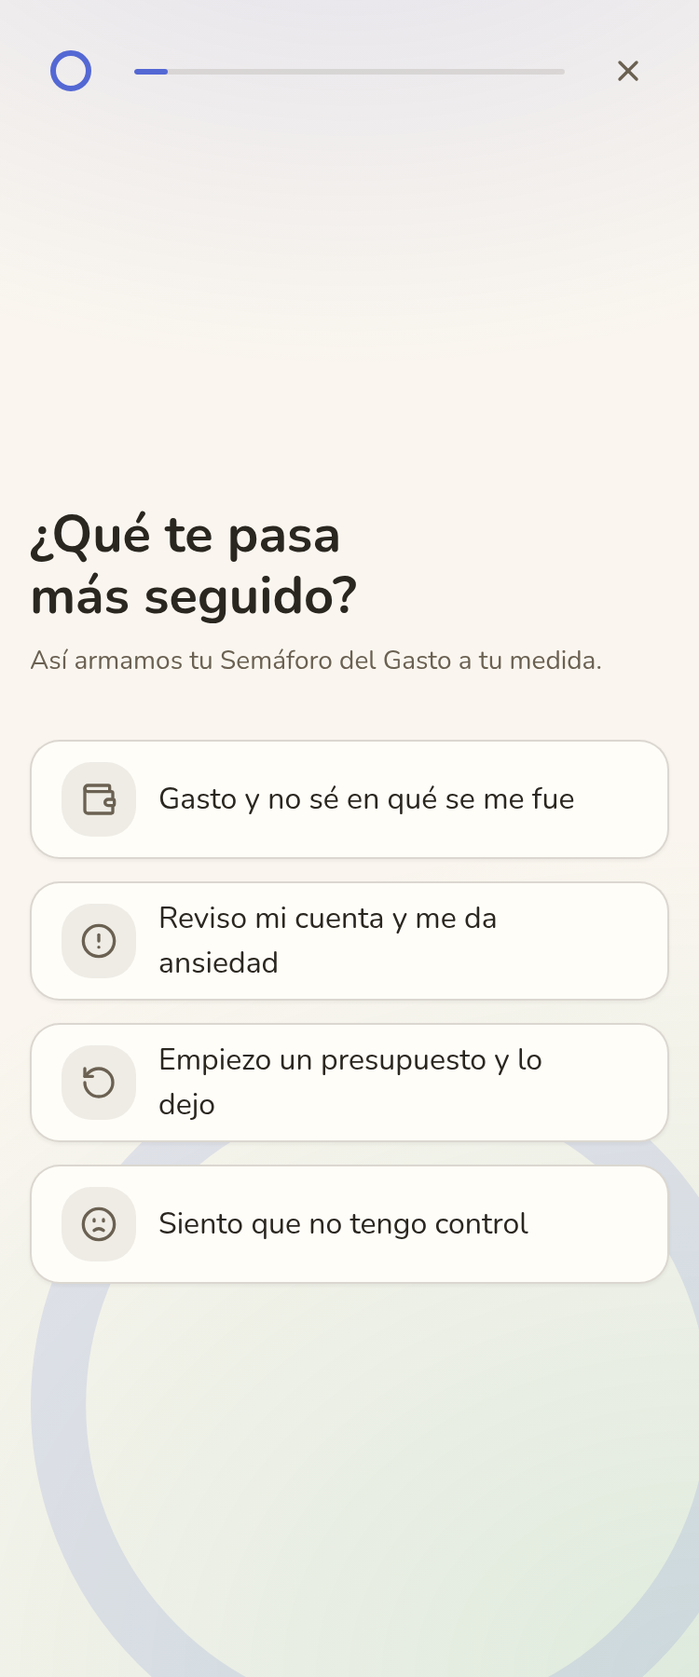
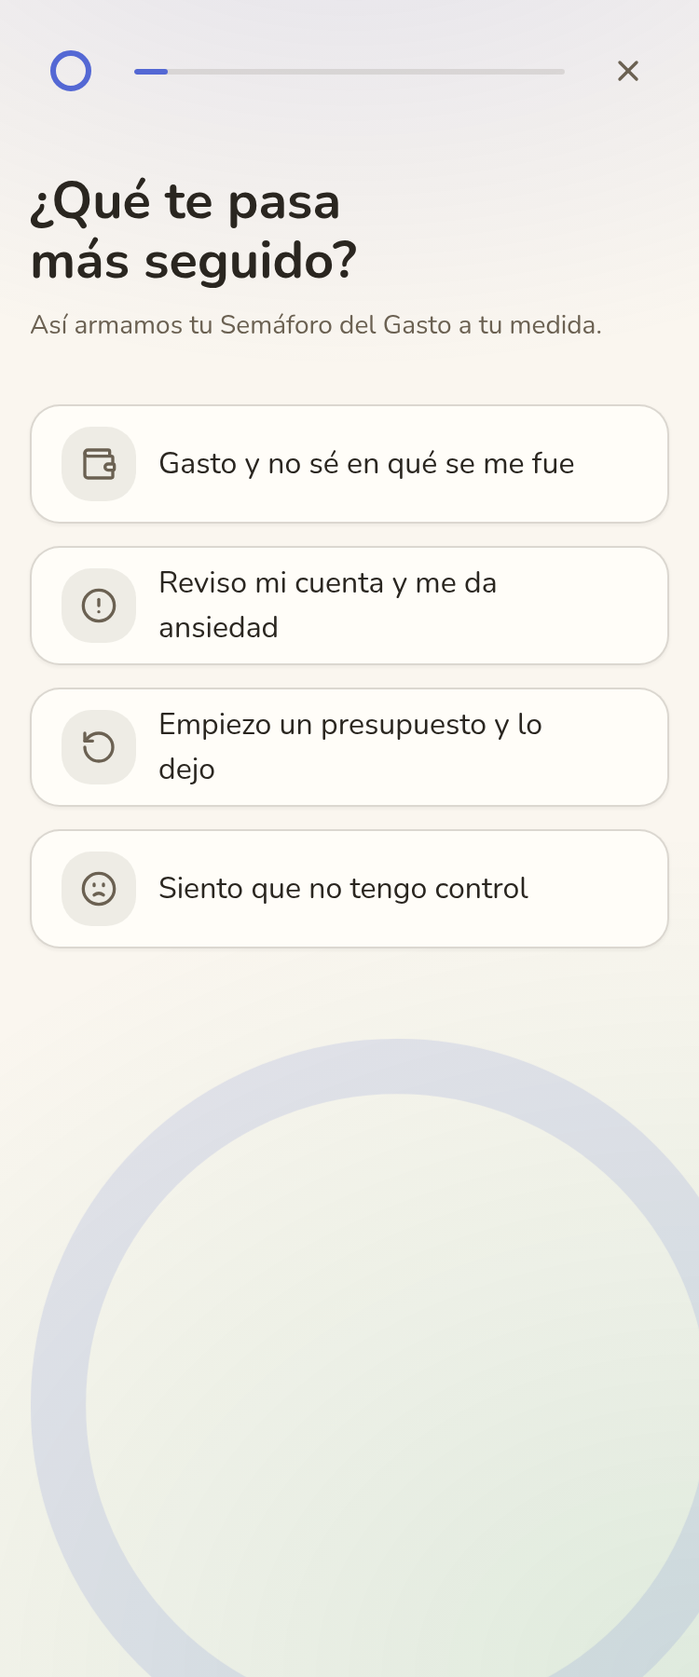
fix: defectos reales de ronda 7 del revisor (onboarding + paywall)
Onboarding:
- HoldButton solo escuchaba pointerdown/up — un usuario de solo-teclado no
  podía completar el compromiso (bloqueaba el funnel entero). Ahora responde
  a Enter/Espacio con el mismo temporizador de 900ms.
- Con reduced-motion, el anillo del HoldButton no daba ninguna señal visual
  durante los 900ms de espera — ahora actualiza en pasos discretos (150ms).
- El justify-center agregado en la ronda 6 solo movió el vacío de abajo
  hacia arriba en las preguntas cortas (matemáticamente equivalente a
  centrar, no lo resolvía) — revertido a layout top-anchored; el fondo ya
  agrandado/animado de la ronda 6 llena el espacio inferior sin necesidad
  de reposicionar el contenido.
- focus-visible agregado a FunnelButton y al círculo del HoldButton
  (inconsistente con OptionChip, que ya lo tenía).

Paywall:
- El CTA principal quedaba fuera del viewport inicial (~88% del scroll) sin
  ninguna forma de alcanzarlo sin desplazarse, en la pantalla que más
  dinero decide — ahora es una barra fija al fondo, siempre visible.
- Nombre de la garantía todavía no coincidía exactamente con la landing
  ("de 14 días sin culpa" vs. "de los Primeros 14 Días Sin Culpa") —
  ahora es el mismo texto en ambas pantallas.
- El estado "Un momento…" del CTA solo atenuaba el botón, sin ninguna
  señal de que algo estaba pasando — FunnelButton ahora acepta `cargando`
  y muestra un anillo girando.
- La fase de carga (~4.4s, LoadingPlan) no tenía ninguna forma de salir —
[…]

diff --git a/components/funnel/ui.tsx b/components/funnel/ui.tsx
@@ -5,7 +5,7 @@
 // el kit de landing (components/landing/tokens.css, ya global vía globals.css) —
 // cero valores nuevos de marca aquí, solo estructura y comportamiento.
 
-import { useEffect, useRef, useState, type ReactNode } from 'react';
+import { useEffect, useRef, useState, type KeyboardEvent, type ReactNode } from 'react';
 import { AnimatePresence, motion, useReducedMotion } from 'motion/react';
 import { ChevronLeft, Check, X } from 'lucide-react';
 import type { LucideIcon } from 'lucide-react';
@@ -74,14 +74,19 @@ export function FunnelButton({
   onClick,
   variant = 'solid',
   disabled = false,
+  cargando = false,
   type = 'button',
 }: {
   children: ReactNode;
   onClick?: () => void;
   variant?: 'solid' | 'outline';
   disabled?: boolean;
+  /** Muestra un anillo girando junto al texto — sin esto, "disabled" a secas
+   * se lee como congelado, no como "trabajando" (heurística 1). */
+  cargando?: boolean;
   type?: 'button' | 'submit';
 }) {
+  const reduce = useReducedMotion();
   const estilo =
     variant === 'outline'
       ? 'border border-[color-mix(in_oklab,var(--accent)_45%,transparent)] text-[var(--accent)] hover:bg-[var(--chip-bg)]'
@@ -92,8 +97,16 @@ export function FunnelButton({
       whileTap={disabled ? undefined : { scale: 0.97 }}
       onClick={onClick}
       disabled={disabled}
-      className={`flex h-[52px] w-full items-center justify-center rounded-[var(--radius-button)] px-8 text-[17px] font-semibold transition-colors duration-150 [touch-action:manipulation] disabled:opacity-40 ${estilo}`}
+      className={`flex h-[52px] w-full items-center justify-center gap-2 rounded-[var(--radius-button)] px-8 text-[17px] font-semibold transition-colors duration-150 [touch-action:manipulation] focus-visible:outline-none focus-visible:ring-2 focus-visible:ring-[var(--accent)] focus-visible:ring-offset-2 focus-visible:ring-offset-[var(--bg)] disabled:opacity-40 ${estilo}`}
     >
+      {cargando && (
+        <motion.span
+          aria-hidden="true"
+          className="inline-flex size-4 shrink-0 rounded-full border-2 border-current border-t-transparent"
+          animate={reduce ? undefined : { rotate: 360 }}
+          transition={reduce ? undefined : { duration: 0.7, repeat: Infinity, ease: 'linear' }}
+        />
+      )}
       {children}
     </motion.button>
   );
@@ -246,7 +259,7 @@ export function FunnelScreen({
         initial={{ opacity: 0, x: reduce ? 0 : 40 }}
         animate={{ opacity: 1, x: 0 }}
         transition={{ duration: reduce ? 0.2 : 0.3, ease: [0.16, 1, 0.3, 1] }}
-        className="mx-auto flex w-full max-w-[500px] flex-1 flex-col justify-center px-4 pb-8 pt-8"
+        className="mx-auto flex w-full max-w-[500px] flex-1 flex-col px-4 pb-8 pt-8"
       >
         {children}
       </motion.div>
@@ -307,22 +320,36 @@ export function HoldButton({ onCommit, label }: { onCommit: () => void; label: s
   const reduce = useReducedMotion();
   const [progreso, setProgreso] = useState(0);
   const rafRef = useRef<number | null>(null);
-  const timeoutRef = useRef<ReturnType<typeof setTimeout> | null>(null);
+  const intervalRef = useRef<ReturnType<typeof setInterval> | null>(null);
   const inicioRef = useRef(0);
+  const presionandoRef = useRef(false);
   const DURACION = 900;
+  const PASO_REDUCE = 150; // reduced-motion: progreso en pasos discretos, no un tween continuo
 
   function limpiar() {
     if (rafRef.current !== null) cancelAnimationFrame(rafRef.current);
     rafRef.current = null;
-    if (timeoutRef.current !== null) clearTimeout(timeoutRef.current);
-    timeoutRef.current = null;
+    if (intervalRef.current !== null) clearInterval(intervalRef.current);
+    intervalRef.current = null;
   }
 
   function empezar() {
+    if (presionandoRef.current) return; // evita reinicios por key-repeat del teclado
+    presionandoRef.current = true;
     if (reduce) {
-      // Sin animación, pero el ritual de "sostener" se mantiene: un solo tap
-      // ya no dispara el compromiso, hay que sostenerlo la misma duración.
-      timeoutRef.current = setTimeout(onCommit, DURACION);
+      // Sin tween, pero SÍ con feedback: el anillo avanza en pasos discretos
+      // cada 150ms — antes quedaba inmóvil al 0% los 900ms completos, sin
+      // ninguna señal de que el gesto se estaba registrando.
+      inicioRef.current = performance.now();
+      intervalRef.current = setInterval(() => {
+        const t = Math.min(1, (performance.now() - inicioRef.current) / DURACION);
+        setProgreso(t * 100);
+        if (t >= 1) {
+          limpiar();
+          presionandoRef.current = false;
+          onCommit();
+        }
+      }, PASO_REDUCE);
       return;
     }
     inicioRef.current = performance.now();
@@ -330,6 +357,7 @@ export function HoldButton({ onCommit, label }: { onCommit: () => void; label: s
       const t = Math.min(1, (ahora - inicioRef.current) / DURACION);
       setProgreso(t * 100);
       if (t >= 1) {
+        presionandoRef.current = false;
         onCommit();
         return;
       }
@@ -340,7 +368,18 @@ export function HoldButton({ onCommit, label }: { onCommit: () => void; label: s
 
   function soltar() {
     limpiar();
+    presionandoRef.current = false;
     setProgreso(0);
+  }
+
+  function alSoltarTecla(e: KeyboardEvent<HTMLButtonElement>) {
+    if (e.key === 'Enter' || e.key === ' ') soltar();
+  }
+  function alPresionarTecla(e: KeyboardEvent<HTMLButtonElement>) {
+    if (e.key === 'Enter' || e.key === ' ') {
+      e.preventDefault(); // Space no debe scrollear la página
+      empezar();
+    }
   }
 
   useEffect(() => limpiar, []);
@@ -352,8 +391,10 @@ export function HoldButton({ onCommit, label }: { onCommit: () => void; label: s
         onPointerDown={empezar}
         onPointerUp={soltar}
         onPointerLeave={soltar}
+        onKeyDown={alPresionarTecla}
+        onKeyUp={alSoltarTecla}
         aria-label={label}
-        className="relative flex size-28 items-center justify-center rounded-full bg-[color-mix(in_oklab,var(--accent)_10%,transparent)] [touch-action:manipulation]"
+        className="relative flex size-28 items-center justify-center rounded-full bg-[color-mix(in_oklab,var(--accent)_10%,transparent)] [touch-action:manipulation] focus-visible:outline-none focus-visible:ring-2 focus-visible:ring-[var(--accent)] focus-visible:ring-offset-2 focus-visible:ring-offset-[var(--bg)]"
       >
         <svg viewBox="0 0 100 100" className="absolute inset-0 -rotate-90">
           <circle cx="50" cy="50" r="44" fill="none" stroke="color-mix(in oklab, var(--accent) 18%, transparent)" strokeWidth="6" />

diff --git a/app/paywall/page.tsx b/app/paywall/page.tsx
@@ -110,7 +110,7 @@ export default function Paywall() {
   if (fase === 'cargando') {
     return (
       <div className="flex min-h-dvh flex-col bg-[var(--bg)] text-[var(--text-primary)] [font-family:var(--font-body)]">
-        <LoadingPlan lineas={lineas} onDone={() => setFase('listo')} />
+        <LoadingPlan lineas={lineas} onDone={() => setFase('listo')} onClose={() => router.push('/')} />
       </div>
     );
   }
@@ -122,7 +122,7 @@ export default function Paywall() {
           `isolate` del contenedor padre sigue siendo necesario (ver su
           definición en components/funnel/ui.tsx). */}
       <FunnelFondo />
-      <div className="mx-auto flex w-full max-w-[500px] flex-col px-4 pb-10 pt-4">
+      <div className="mx-auto flex w-full max-w-[500px] flex-col px-4 pb-32 pt-4">
         <div className="flex h-11 items-center justify-between">
           <motion.button
             type="button"
@@ -245,22 +245,7 @@ export default function Paywall() {
             </div>
           </Bloque>
 
-          <Bloque indice={4} reduce={reduce}>
-            <FunnelButton onClick={empezarPrueba} disabled={avanzando}>
-              {avanzando ? 'Un momento…' : `Empezar mis ${TRIAL_DIAS} días gratis`}
-            </FunnelButton>
-            {errorAvance && (
-              <p className="mt-2 text-center text-[13px] text-[var(--text-secondary)]">
-                Esto está tardando más de lo normal. Vuelve a intentarlo — si sigue sin avanzar, revisa tu conexión.
-              </p>
-            )}
-          </Bloque>
-
-          <Bloque indice={5} reduce={reduce} className="flex flex-col items-center gap-4">
-            <p className="-mt-2 text-center text-[13px] text-[var(--text-secondary)]">
-              Cancela cuando quieras · te avisamos antes del cobro
-            </p>
-
+          <Bloque indice={4} reduce={reduce} className="flex flex-col items-center gap-4">
             <motion.button
               type="button"
               whileTap={{ scale: 0.96 }}
@@ -275,10 +260,28 @@ export default function Paywall() {
                 <Lock size={14} strokeWidth={2} aria-hidden="true" /> Pago seguro
               </span>
               <span className="inline-flex items-center gap-1">
-                <ShieldCheck size={14} strokeWidth={2} aria-hidden="true" /> Garantía de {GARANTIA_DIAS} días sin culpa
+                <ShieldCheck size={14} strokeWidth={2} aria-hidden="true" /> Garantía de los Primeros {GARANTIA_DIAS} Días Sin Culpa
               </span>
             </p>
           </Bloque>
+        </div>
+      </div>
+
+      {/* CTA fijo al fondo (no en el flujo del scroll): la 7ª pasada del revisor
+          midió que el botón principal quedaba a ~88% del alto de la página sin
+          ninguna forma de alcanzarlo sin desplazarse — en la pantalla que más
+          dinero decide, la acción primaria no puede depender de que alguien
+          llegue hasta el final. */}
+      <div className="fixed inset-x-0 bottom-0 z-30 border-t border-[color-mix(in_oklab,var(--text-tertiary)_15%,transparent)] bg-[var(--bg)] px-4 pb-[max(16px,env(safe-area-inset-bottom))] pt-4 shadow-[var(--shadow-2)]">
+        <div className="mx-auto w-full max-w-[500px]">
+          <FunnelButton onClick={empezarPrueba} disabled={avanzando} cargando={avanzando}>
+            {avanzando ? 'Un momento…' : `Empezar mis ${TRIAL_DIAS} días gratis`}
+          </FunnelButton>
+          {errorAvance && (
+            <p className="mt-2 text-center text-[13px] text-[var(--text-secondary)]">
+              Esto está tardando más de lo normal. Vuelve a intentarlo — si sigue sin avanzar, revisa tu conexión.
+            </p>
+          )}
         </div>
       </div>
       <ConfirmSalir

diff --git a/components/funnel/LoadingPlan.tsx b/components/funnel/LoadingPlan.tsx
@@ -6,13 +6,23 @@
 
 import { useEffect, useState } from 'react';
 import { motion, useReducedMotion } from 'motion/react';
-import { Check } from 'lucide-react';
+import { Check, X } from 'lucide-react';
 
 const INTERVALO_MS = 1100;
 const PAUSA_FINAL_MS = 400;
 const CIRC = 2 * Math.PI * 44; // r=44 en un viewBox de 100
 
-export function LoadingPlan({ lineas, onDone }: { lineas: string[]; onDone: () => void }) {
+export function LoadingPlan({
+  lineas,
+  onDone,
+  onClose,
+}: {
+  lineas: string[];
+  onDone: () => void;
+  /** Salida durante la carga — sin esto no hay forma de salir en los ~4.4s
+   * que dura esta pantalla (heurística 3: control y libertad). */
+  onClose?: () => void;
+}) {
   const reduce = useReducedMotion();
   const [activa, setActiva] = useState(0);
 
@@ -33,7 +43,18 @@ export function LoadingPlan({ lineas, onDone }: { lineas: string[]; onDone: () =
   const porcentaje = Math.round((Math.min(activa, lineas.length) / lineas.length) * 100);
 
   return (
-    <div className="mx-auto flex w-full max-w-[420px] flex-1 flex-col items-center justify-center px-4 text-center">
+    <div className="relative flex min-h-dvh flex-col">
+      {onClose && (
+        <button
+          type="button"
+          onClick={onClose}
+          aria-label="Salir"
+          className="absolute right-4 top-4 flex size-11 items-center justify-center rounded-full text-[var(--text-secondary)] [touch-action:manipulation]"
+        >
+          <X size={18} strokeWidth={2.25} aria-hidden="true" />
+        </button>
+      )}
+      <div className="mx-auto flex w-full max-w-[420px] flex-1 flex-col items-center justify-center px-4 text-center">
       <div className="relative flex size-28 items-center justify-center">
         <svg viewBox="0 0 100 100" className="absolute inset-0 -rotate-90">
           <circle cx="50" cy="50" r="44" fill="none" stroke="color-mix(in oklab, var(--accent) 14%, transparent)" strokeWidth="9" />
@@ -97,6 +118,7 @@ export function LoadingPlan({ lineas, onDone }: { lineas: string[]; onDone: () =
           );
         })}
       </ul>
+      </div>
     </div>
   );
 }

diff --git a/docs/revisiones/paywall-veredicto.md b/docs/revisiones/paywall-veredicto.md
@@ -1,43 +1,42 @@
-# VEREDICTO revisor-visual — Paywall (Respira)
+# VEREDICTO revisor-visual — Paywall (Respira) — Ronda 7
 Fecha: 2026-09-17 00:00
-Screenshot: docs/revisiones/paywall-375.png
-Usabilidad: 33/40
-Craft: 14/20
+Screenshot: docs/revisiones/paywall-375.png (+ docs/revisiones/paywall-cargando-375.png)
+Usabilidad: 32/40
+Craft: 16/20
 Copy (si vende): 19/20
 Fidelidad (si hubo referencia): N-A
 Veredicto: NO LISTA
 
-## Desglose usabilidad /40
-1. Visibilidad del estado del sistema: 3/4 — el CTA cambia a "Un momento…" + disabled al tocar, con salvaguarda de 7s (app/paywall/page.tsx L65-72). Falta un ícono/spinner visible, solo cambia el texto.
-2. Lenguaje del usuario: 4/4 — cero jerga, copy 100% en el mundo de Camila ("gasto y no sé en qué se me fue", "sin conectar tu banco").
-3. Control y libertad (código): 3/4 — `ConfirmSalir` (components/funnel/ui.tsx L227-269) reemplaza el `window.confirm` nativo y solo aparece si `hayRespuestas`; X y "Ahora no" comparten la misma salida. Resta puntos que la selección de plan se pierda silenciosamente al avanzar (ver defecto 4).
-4. Consistencia: 3/4 — reutiliza FunnelButton/CheckCustom/RespiraMark, pero el botón "X" tiene `whileTap` en paywall (page.tsx L131-139) y NO lo tiene en `FunnelHeader` (ui.tsx L53-62) para el mismo ícono/función en onboarding.
-5. Prevención de errores: 4/4 — plan "Anual" pre-seleccionado por defecto (no exige elección), doble-tap bloqueado con `avanzando`.
-6. Reconocer vs recordar: 4/4 — fechas reales calculadas (`formatearFecha`, "22 sept", "24 sept"), no fechas relativas vagas; todo el contexto del quiz (dolor, meta, nº respuestas) visible sin que el usuario tenga que recordarlo.
-7. Flexibilidad y eficiencia (código): 3/4 — default inteligente (plan anual preseleccionado); sin atajos de teclado, pero es una pantalla mobile de un solo flujo, no aplica mucho más.
-8. Estético y minimalista: 3/4 — 1 CTA primario + 2 secundarios (X, "Ahora no"), cada bloque se gana su lugar; usa 7 tamaños de texto distintos en una sola vista (28/20/15/14/13/12/11px) cuando el sistema pide máx. 3.
-9. Errores claros con solución: 2/4 — el ÚNICO manejo de error de la pantalla (`setTimeout` de 7s en `empezarPrueba`, page.tsx L69-71) revierte el botón en silencio, sin ningún mensaje "qué pasó + qué hacer". Esto es la misma brecha marcada NO CERRADA de la ronda 4 ("falta de patrón de error/reintento visible"): se agregó una salvaguarda técnica, no un patrón de error visible.
-10. Ayuda contextual: 4/4 — timeline con fechas reales + explicación de cada hito, microcopy bajo el CTA anticipa la objeción de cobro sorpresa, trust row (pago seguro + garantía).
+## Desglose Usabilidad /40
+- h1 Visibilidad del estado del sistema: 3/4 — plan seleccionado da feedback inmediato (tinte+sombra), CTA cambia a "Un momento…" y el timeout muestra mensaje visible (h9-fix confirmado, línea `errorAvance` en app/paywall/page.tsx:252-256). Resta 1 punto: durante los 7s de espera el único cambio es la opacidad del botón (disabled:opacity-40) — sin spinner ni animación, el usuario no tiene señal de que algo sigue en curso hasta que aparece el mensaje a los 7s.
+- h2 Lenguaje del usuario: 4/4 — cero jerga, cero inglés crudo, copy natural en todo el flujo.
+- h3 Control y libertad: 3/4 — X y "Ahora no" abren `ConfirmSalir` (con "Seguir aquí"/"Salir sin guardar") cuando hay respuestas — bien. Resta 1 punto: la fase `cargando` (LoadingPlan, ~4.8s) no renderiza ningún header/X — cero forma de salir durante ese tramo (`app/paywall/page.tsx:110-116` retorna solo `<LoadingPlan>`, sin `FunnelHeader` ni botón de cierre).
+- h4 Consistencia y estándares: 3/4 — el botón X ahora tiene `whileTap` igual que `FunnelHeader` (fix confirmado), `Hairline` usa los mismos tokens del kit. Resta 1 punto: la garantía se nombra distinto que en la landing — paywall dice "Garantía de 14 días sin culpa" (`app/paywall/page.tsx:278`) vs. landing "la Garantía de los **Primeros** 14 Días Sin Culpa" (`app/page.tsx:139`, Title Case + "Primeros"). Es el mismo concepto con dos nombres — mejor que la ronda 6 pero todavía no es el mismo string.
+- h5 Prevención de errores: 4/4 — plan Anual preseleccionado por defecto, `if (avanzando) return;` evita doble-tap (`app/paywall/page.tsx:67`), sin inputs libres que puedan fallar.
+- h6 Reconocer mejor que recordar: 4/4 — precios, timeline de cobro y garantía todos visibles a la vez; nada que el usuario deba recordar de otra pantalla.
+- h7 Flexibilidad y eficiencia (verificado en código): 2/4 — no hay atajos de teclado ni forma de saltar la animación de carga para quien vuelve a ver el paywall; `FunnelButton` y los botones de plan no definen `focus-visible` propio (a diferencia de `OptionChip`, que sí lo tiene en `components/funnel/ui.tsx:138`) — navegación por teclado inconsistente entre componentes del mismo kit.
+- h8 Estético y minimalista: 2/4 — 1 sola acción primaria, bien. Pero el screenshot completo mide ~1112px CSS de alto contra un viewport típico de ~812px: el CTA queda fuera de la vista inicial (~88% del scroll) y no hay CTA sticky (a diferencia del kit de landing, que sí tiene `<StickyCtaMobile>` en `components/landing/ui.tsx:186`). Además el mensaje "sin cobro sorpresa / cancela cuando quieras" se repite 3 veces con distinta redacción (timeline nodo 2 y 3 en líneas 228-229, y la línea suelta en 260-262) — no cada elemento se gana claramente su lugar.
+- h9 Errores claros y con solución: 4/4 — fix confirmado línea por línea: `errorAvance` muestra "Esto está tardando más de lo normal. Vuelve a intentarlo — si sigue sin avanzar, revisa tu conexión." (qué pasó + qué hacer, sin jerga). Retry funcional (`setErrorAvance(false)` al reintentar).
+- h10 Ayuda contextual: 3/4 — headline y value stack personalizados con las respuestas reales del onboarding (`leerRespuestas()`), el loading educa sobre qué está pasando. No es un empty state pero cumple la función de orientar.
 
-## Desglose craft /20
-- Jerarquía: 3/4 — 4 niveles legibles (héroe 28px → precio 20px → cuerpo 15px → labels 12-13px), pero hay demasiadas variantes de tamaño compitiendo (7 valores distintos de font-size en una sola pantalla).
-- Profundidad: 3/4 — 3 niveles de superficie correctos y verificados en tokens.css (`--bg` #faf6ef / `--surface` #fffdf8 / `--surface-2` #f1eadc), fondo decorativo con `isolate`+`fixed` ya visible en el screenshot (fix real, confirmado). El mesh de fondo sigue siendo muy sutil (casi imperceptible salvo el círculo inferior derecho).
-- Identidad ownable: 2/4 — el anillo de respiración (dispositivo ownable) está presente (SVG circular decorativo), y los checks son custom (sin emoji). Pero el componente `<Hairline>` del propio kit (components/landing/ui.tsx L48-75), pensado explícitamente para "plan recomendado", NO se usa en ningún lado del paywall: las 3 cards (value-stack, plan Anual, plan Mensual) usan bordes sólidos planos. Esto incumple el ancla binaria de conversión "≥1 hairline degradé" y penaliza este eje.
-- Movimiento (código + screenshot): 3/4 — stagger de entrada por bloque (`Bloque`, page.tsx L23-46), whileTap en todos los botones, modal con fade+scale, reduced-motion respetado en los 4 componentes revisados (Bloque, ConfirmSalir, LoadingPlan, HoldButton). Sin conteo animado de número héroe ni anillo/barra dibujándose EN esta pantalla en particular (aplican en LoadingPlan, pero esa pantalla no se pudo verificar visualmente — ver defecto 1).
-- Encaje óptico: 3/4 — radios consistentes (22px cards / 16px botones, verificado en tokens.css), badge y precios bien alineados, sin desencajes visibles a simple vista en el screenshot.
+## Desglose Craft /20
+- Jerarquía: 3/4 — headline 28px + acento, precios 20px, cuerpo 13-16px, labels 12-13px: funciona pero son casi 4 tamaños compitiendo, no 3 nítidos.
+- Profundidad: 3/4 — `FunnelFondo` compartido confirmado (fix real: mismo componente en `FunnelScreen` y en el paywall, `components/funnel/ui.tsx:170-220`), 3 superficies (base/surface/surface-2 hundido) presentes en código, pero en el screenshot el degradé superior se percibe casi plano — se nota más en el anillo tras el timeline que en el resto de la pantalla.
+- Identidad ownable: 3/4 — Nunito, anillo de marca, checks custom, hairline degradé en la card Anual (fix confirmado: `<Hairline emphasis={plan === 'anual'}>` en `app/paywall/page.tsx:176`). Pero el "Semáforo del Gasto" — el mecanismo que da nombre a la app y aparece 2 veces en el propio copy de esta pantalla — no tiene NINGUNA representación visual (ni rojo/ámbar/verde, la 2ª y 3ª nota de FICHA-ARTE.md líneas 26-27): toda la pantalla es monocromática en azul-lila. Se pierde el dispositivo más ownable que tiene el producto justo en la pantalla que lo vende.
+- Movimiento: 4/4 (verificado en código) — stagger de entrada (`Bloque`, indice*0.07), conteo de % en el anillo de carga (`LoadingPlan.tsx:33`), anillo que se dibuja (`strokeDashoffset` animado), tap <150ms en todos los botones (`whileTap`), modal `ConfirmSalir` con fade+scale, `useReducedMotion` respetado en los 5 archivos revisados.
+- Encaje óptico: 3/4 — `tabular-nums` en precios y porcentaje, radios consistentes (`--radius-card`/`--radius-button` en todas las cards y botones), padding simétrico (`p-5`). El badge "5 MESES GRATIS" se recorta bien sobre el hairline. Nada roto, pero nada sobresaliente tampoco.
 
-## Desglose copy /20 (trazado a FICHA-AVATAR.md)
-- Idea única dominante: 4/4 — "Semáforo del Gasto" como mecanismo bautizado, presente en hero + value stack + CTA implícito, consistente en todo el copy.
-- Especificidad y prueba: 3/4 — precios y ahorro con números verificables ($4.16/mes, $49.99/año, ~40%, verificado contra lib/pricing.ts), cero claims de ingresos/salud. Los 3 beneficios del value stack son afirmaciones de producto sin prueba/demo adicional.
-- Emoción/dolor real: 4/4 — cita casi literal el dolor ★ de la ficha ("Para que no vuelvas a decir «gasto y no sé en qué se me fue»" ← dolor #1 "Otra vez gasté sin darme cuenta y ahora no sé en qué se me fue la plata"), y el check "sin conectar tu banco" responde directo a la objeción #2 de la ficha.
-- Claridad de oferta: 4/4 — stack explícito, precio anclado (mensual vs. anual con % de ahorro), trial de 7 días con timeline de fechas reales, garantía nombrada con plazo ("Garantía de 14 días") cerca del CTA.
-- Dirección a una acción: 4/4 — un solo tipo de acción primaria ("Empezar mis 7 días gratis"), "Ahora no" y "X" son la única salida, sin CTAs que compitan.
-- Sub-check garantía nombrada: PASA (nombre + plazo, visible junto al CTA).
-- Sub-check message-match: no verificable (no hay dato del creativo de origen).
+## Desglose Copy /20 (trazado a FICHA-AVATAR.md)
+- Idea única dominante: 4/4 — todo el copy gira en "Semáforo del Gasto" bautizado, repetido en headline, subtítulo y value stack.
+- Especificidad y prueba: 3/4 — "Ahorras ~40% vs. mensual" es verificable (49.99 vs 83.88 = 40.4%, matemática correcta); "5 MESES GRATIS" es una redondeo razonable (4.85 meses reales). Cero prueba social/testimonio en esta pantalla — aceptable en un paywall post-quiz, pero no suma puntos de prueba.
+- Emoción/dolor real: 4/4 — el subtítulo «Para que no vuelvas a decir "gasto y no sé en qué se me fue"» es casi cita literal del dolor #1 (★, el marcado como principal) de FICHA-AVATAR.md línea 22.
+- Claridad de oferta: 4/4 — timeline día a día (Hoy/Día 5/Día 7) con monto exacto de cobro, plan y precio siempre visibles sin tener que releer.
+- Dirección a una acción: 4/4 — un solo CTA primario, "Ahora no" claramente secundario y sin competir visualmente.
+- Sub-check garantía nombrada: PASA (nombre + plazo presentes) pero con la inconsistencia de naming ya anotada en h4.
 
-## Top defectos
-1. [proceso/evidencia] El screenshot `docs/revisiones/paywall-cargando-375.png` entregado para esta ronda NO es la pantalla de loading del paywall (`components/funnel/LoadingPlan.tsx`, "Armando tu Semáforo del Gasto…" con anillo %) — es la pantalla de compromiso del ONBOARDING ("¡Listo, quedó registrado!", `app/onboarding/page.tsx` línea ~220). La pantalla de labor illusion del paywall NUNCA fue verificada visualmente en esta ronda → volver a capturar el screenshot correcto desde `/paywall` justo tras terminar el quiz antes de dar por buena esa fase.
-2. [CTA "Empezar mis X días gratis", `app/paywall/page.tsx` L65-72] El manejo de error del CTA es un `setTimeout` mudo de 7s que revierte el botón sin ningún mensaje ("qué pasó + qué hacer") — la brecha de la ronda 4 ("falta de patrón de error/reintento visible") sigue sin un patrón de error real → agregar un mensaje inline visible (ej. "No pudimos continuar, intenta de nuevo") cuando el timeout se dispara.
-3. [Cards de plan y value-stack, `app/paywall/page.tsx` L161-219] Ninguna card usa el componente `<Hairline>` (borde degradé) que el propio kit define para "plan recomendado" (`components/landing/ui.tsx` L48-75) — todas usan bordes sólidos planos, incumpliendo el gate binario de conversión "≥1 hairline degradé" → envolver la card del plan Anual con `<Hairline emphasis>`.
-4. [`empezarPrueba()`, `app/paywall/page.tsx` L65-72] El plan seleccionado (`anual`/`mensual`) nunca se persiste ni se pasa a `/entrar` — el usuario elige "Mensual" y esa elección desaparece antes del login/checkout → guardar `plan` en localStorage (mismo patrón que `guardarRespuestas`) o pasarlo por query param.
-5. [Botón "X" de cerrar — `app/paywall/page.tsx` L131-139 vs. `components/funnel/ui.tsx` L53-62] Mismo ícono/función con comportamiento de tap distinto entre pantallas (con `whileTap` en paywall, sin él en `FunnelHeader` de onboarding) → unificar el componente.
+## TOP DEFECTOS (máx 5)
+1. [Pantalla completa de planes, `app/paywall/page.tsx:118-283`] El CTA principal queda fuera del viewport inicial (~1112px de alto vs ~812px de viewport, CTA a ~88% del scroll) y no existe un CTA sticky de respaldo → agregar una barra CTA fija inferior (reusar el patrón de `StickyCtaMobile` en `components/landing/ui.tsx:186`) o comprimir el contenido para que el CTA entre en el primer scroll.
+2. [`app/paywall/page.tsx:278` vs `app/page.tsx:139`] La garantía se nombra distinto en paywall ("Garantía de 14 días sin culpa") y en landing ("la Garantía de los Primeros 14 Días Sin Culpa") → exportar el nombre completo como constante en `lib/pricing.ts` y usarlo literal en ambos archivos.
+3. [Toda la pantalla de planes] El "Semáforo del Gasto" —el mecanismo bautizado que da nombre a la pantalla— no tiene ninguna representación visual de semáforo (rojo/ámbar/verde, ya definidos en FICHA-ARTE.md líneas 26-27) → agregar un chip/ícono de 3 puntos junto al headline o en el value stack.
+4. [`app/paywall/page.tsx:248-256`, botón `FunnelButton`] Durante los 7s de "Un momento…" no hay ningún indicador de progreso, solo opacidad reducida — se siente colgado hasta que aparece el mensaje de error → sumar un spinner/dots animados junto al texto mientras `avanzando` es true.
+5. [`app/paywall/page.tsx:110-116` + `LoadingPlan.tsx`] La fase de carga (~4.8s) no renderiza ningún header ni botón de salida — cero forma de cancelar/cerrar durante ese tramo → agregar al menos un X discreto arriba, igual que en el resto del funnel.

diff --git a/docs/revisiones/onboarding-veredicto.md b/docs/revisiones/onboarding-veredicto.md
@@ -1,14 +1,17 @@
 # VEREDICTO revisor-visual — onboarding
 Fecha: 2026-09-17 00:00
-Screenshot: docs/revisiones/onboarding-375.png
-Usabilidad: 31/40
-Craft: 13/20
-Copy (si vende): N-A
+Screenshot: docs/revisiones/onboarding-375.png (+ onboarding-paso2-375.png, onboarding-paso6-375.png, onboarding-celebracion-375.png)
+Usabilidad: 30/40
+Craft: 12/20
+Copy (si vende): N-A (onboarding, no landing/paywall)
 Fidelidad (si hubo referencia): N-A
 Veredicto: NO LISTA
+
 Top defectos:
-1. [Pasos con lista de opciones — paso 0/2/3/5, app/onboarding/page.tsx L60-80, L104-125, L126-147, L176-197] El contenedor de la pregunta no distribuye verticalmente (sin `justify-center` ni relleno) → ~35-40% de la pantalla queda vacío entre la última opción y el borde inferior, visible en onboarding-375.png y onboarding-paso2-375.png → Fix: envolver el bloque de pregunta en `flex flex-1 flex-col justify-center` (como ya hacen los pasos de reconocimiento, L153/L202) o sumar un elemento de apoyo que llene el espacio.
-2. [Anillo decorativo de marca — components/funnel/ui.tsx L207-209] El "anillo de respiración" (dispositivo ownable de FICHA-ARTE L16/L30: "anillo que se expande") es un `<circle>` SVG 100% estático, sin animación de escala/opacidad — contradice la firma de movimiento propia de la marca en las 4 capturas → Fix: `motion.circle` con pulso sutil (scale 1↔1.03, opacity 0.12↔0.18, loop ~4s, respetando `useReducedMotion`).
-3. [Todo el flujo — app/onboarding/page.tsx] No hay indicador textual de cuántas preguntas faltan (solo la barra abstracta) ni opción de omitir preguntas no críticas (momento del día, ya-intentaste) → Fix: micro-copy "Pregunta X de 6" junto al header o un link discreto de "omitir" en pasos no esenciales.
-4. [lib/onboarding.ts L87-93, guardarRespuestas] El catch de `localStorage.setItem` es silencioso: si falla (modo privado/storage lleno), el usuario termina el quiz sin saber que nada se guardó y llega a /paywall con personalización genérica sin ninguna pista → viola heurística 9 (errores con solución) → Fix: aviso discreto no bloqueante si el guardado falla.
-5. [Craft EJE5, mismo origen que #1 — paso 6, onboarding-paso6-375.png] La pantalla de compromiso (la de mayor conversión del onboarding) queda con vacío arriba Y abajo del bloque título+HoldButton; el botón de 112px se ve aislado en un lienzo casi vacío, sin sentirse como el momento culminante que promete el copy → Fix: acompañar el HoldButton con apoyo visual (mini-resumen de respuestas o iconografía del Semáforo).
+1. [components/funnel/ui.tsx, HoldButton líneas 348-377] Solo escucha onPointerDown/onPointerUp/onPointerLeave, sin onClick ni onKeyDown/onKeyUp: un usuario de solo-teclado (Tab + Enter/Espacio) no puede completar el compromiso — el funnel del dinero queda bloqueado por completo para ese segmento, sin ruta alterna. Fix: agregar onKeyDown (Enter/Espacio) que arranque el mismo temporizador de 900ms y onKeyUp que lo cancele, igual que el pointerdown/up.
+2. [components/funnel/ui.tsx, FunnelScreen línea 249, clase `justify-center` en el motion.div de contenido] En los pasos de pregunta (0, 2, 3, 5 — sin wrapper flex-1 propio) centra el bloque título+opciones como grupo, dejando un vacío grande y sin textura ARRIBA del título (visible en onboarding-375.png y onboarding-paso2-375.png: la pregunta no aparece hasta pasado ~40-45% del alto de pantalla) mientras el aro decorativo llena visualmente la mitad de ABAJO. El fix de "espacio muerto" de la ronda 6 movió el vacío de abajo hacia arriba y lo hizo más notorio porque abajo ahora hay color/textura y arriba no hay nada — se ve una pantalla flotando a medio camino, no centrada con intención. Fix: envolver título+subtítulo+opciones en su propio `<div className="flex-1 flex flex-col justify-center">` (como ya hacen los pasos de reconocimiento 1 y 4) en vez de aplicar justify-center al contenedor raíz completo.
+3. [components/funnel/ui.tsx, HoldButton líneas 321-327, rama `if (reduce)`] Con prefers-reduced-motion activo, `setProgreso` nunca se llama: el anillo permanece inmóvil al 0% durante los 900ms completos de sostenido, sin ninguna señal de que el gesto se está registrando, hasta que de golpe navega a /paywall. Un usuario con esta preferencia del sistema (no poco común, muchos la activan por batería, no solo por vestibular) no sabe si el hold está funcionando. Fix: en la rama reduce, actualizar el `strokeDashoffset` o la opacidad en pasos discretos (setInterval cada ~150-200ms) para dar feedback intermedio sin depender de requestAnimationFrame continuo.
+4. [components/funnel/ui.tsx, FunnelFondo líneas 202-217 — eje craft identidad] El dispositivo ownable ("anillo de respiración") es un círculo translúcido de opacidad plana en la esquina, sin textura, grano ni tratamiento propio — la misma FICHA-ARTE admite que es "compatible con los líderes" (Fintonic/Revolut ya usan anillos de progreso). En el screenshot se lee como decoración genérica de fintech clara con acento azul, intercambiable con otra app del mismo rubro. Fix: dar un tratamiento distintivo (grosor variable, trazo con textura/blur propio, o vincularlo a un dato real del usuario) en vez de un aro de opacidad uniforme.
+5. [components/funnel/ui.tsx, HoldButton (paso 6/celebración) vs FunnelFondo] El círculo interactivo "Mantén presionado" (112px, tono azul-lila) queda visualmente pegado justo encima del aro decorativo de fondo del mismo tono — en onboarding-paso6-375.png y onboarding-celebracion-375.png se leen como dos anillos concéntricos del mismo sistema, cuando uno es el progreso real del hold y el otro es puro fondo. Riesgo de que el usuario confunda cuál está "cargando". Fix: separar más el aro decorativo del HoldButton (bajarlo o achicarlo) o diferenciar tono/opacidad para que no se confundan como el mismo elemento.
+
+Nota — mejoras confirmadas desde la ronda 6: (a) `onClose={salir}` presente y funcional en el paso 0 (X visible en las 4 capturas); (b) en HoldButton con reduced-motion ya NO se dispara con un solo pointerdown — el `setTimeout` de 900ms preserva el ritual de sostener (aunque sin feedback visual, ver defecto 3); (c) el mesh y el anillo se agrandaron y el anillo ahora pulsa (ya no 100% estático), pero el `justify-center` agregado al mismo tiempo introdujo el defecto 2 arriba — el espacio muerto se reubicó, no se eliminó.
